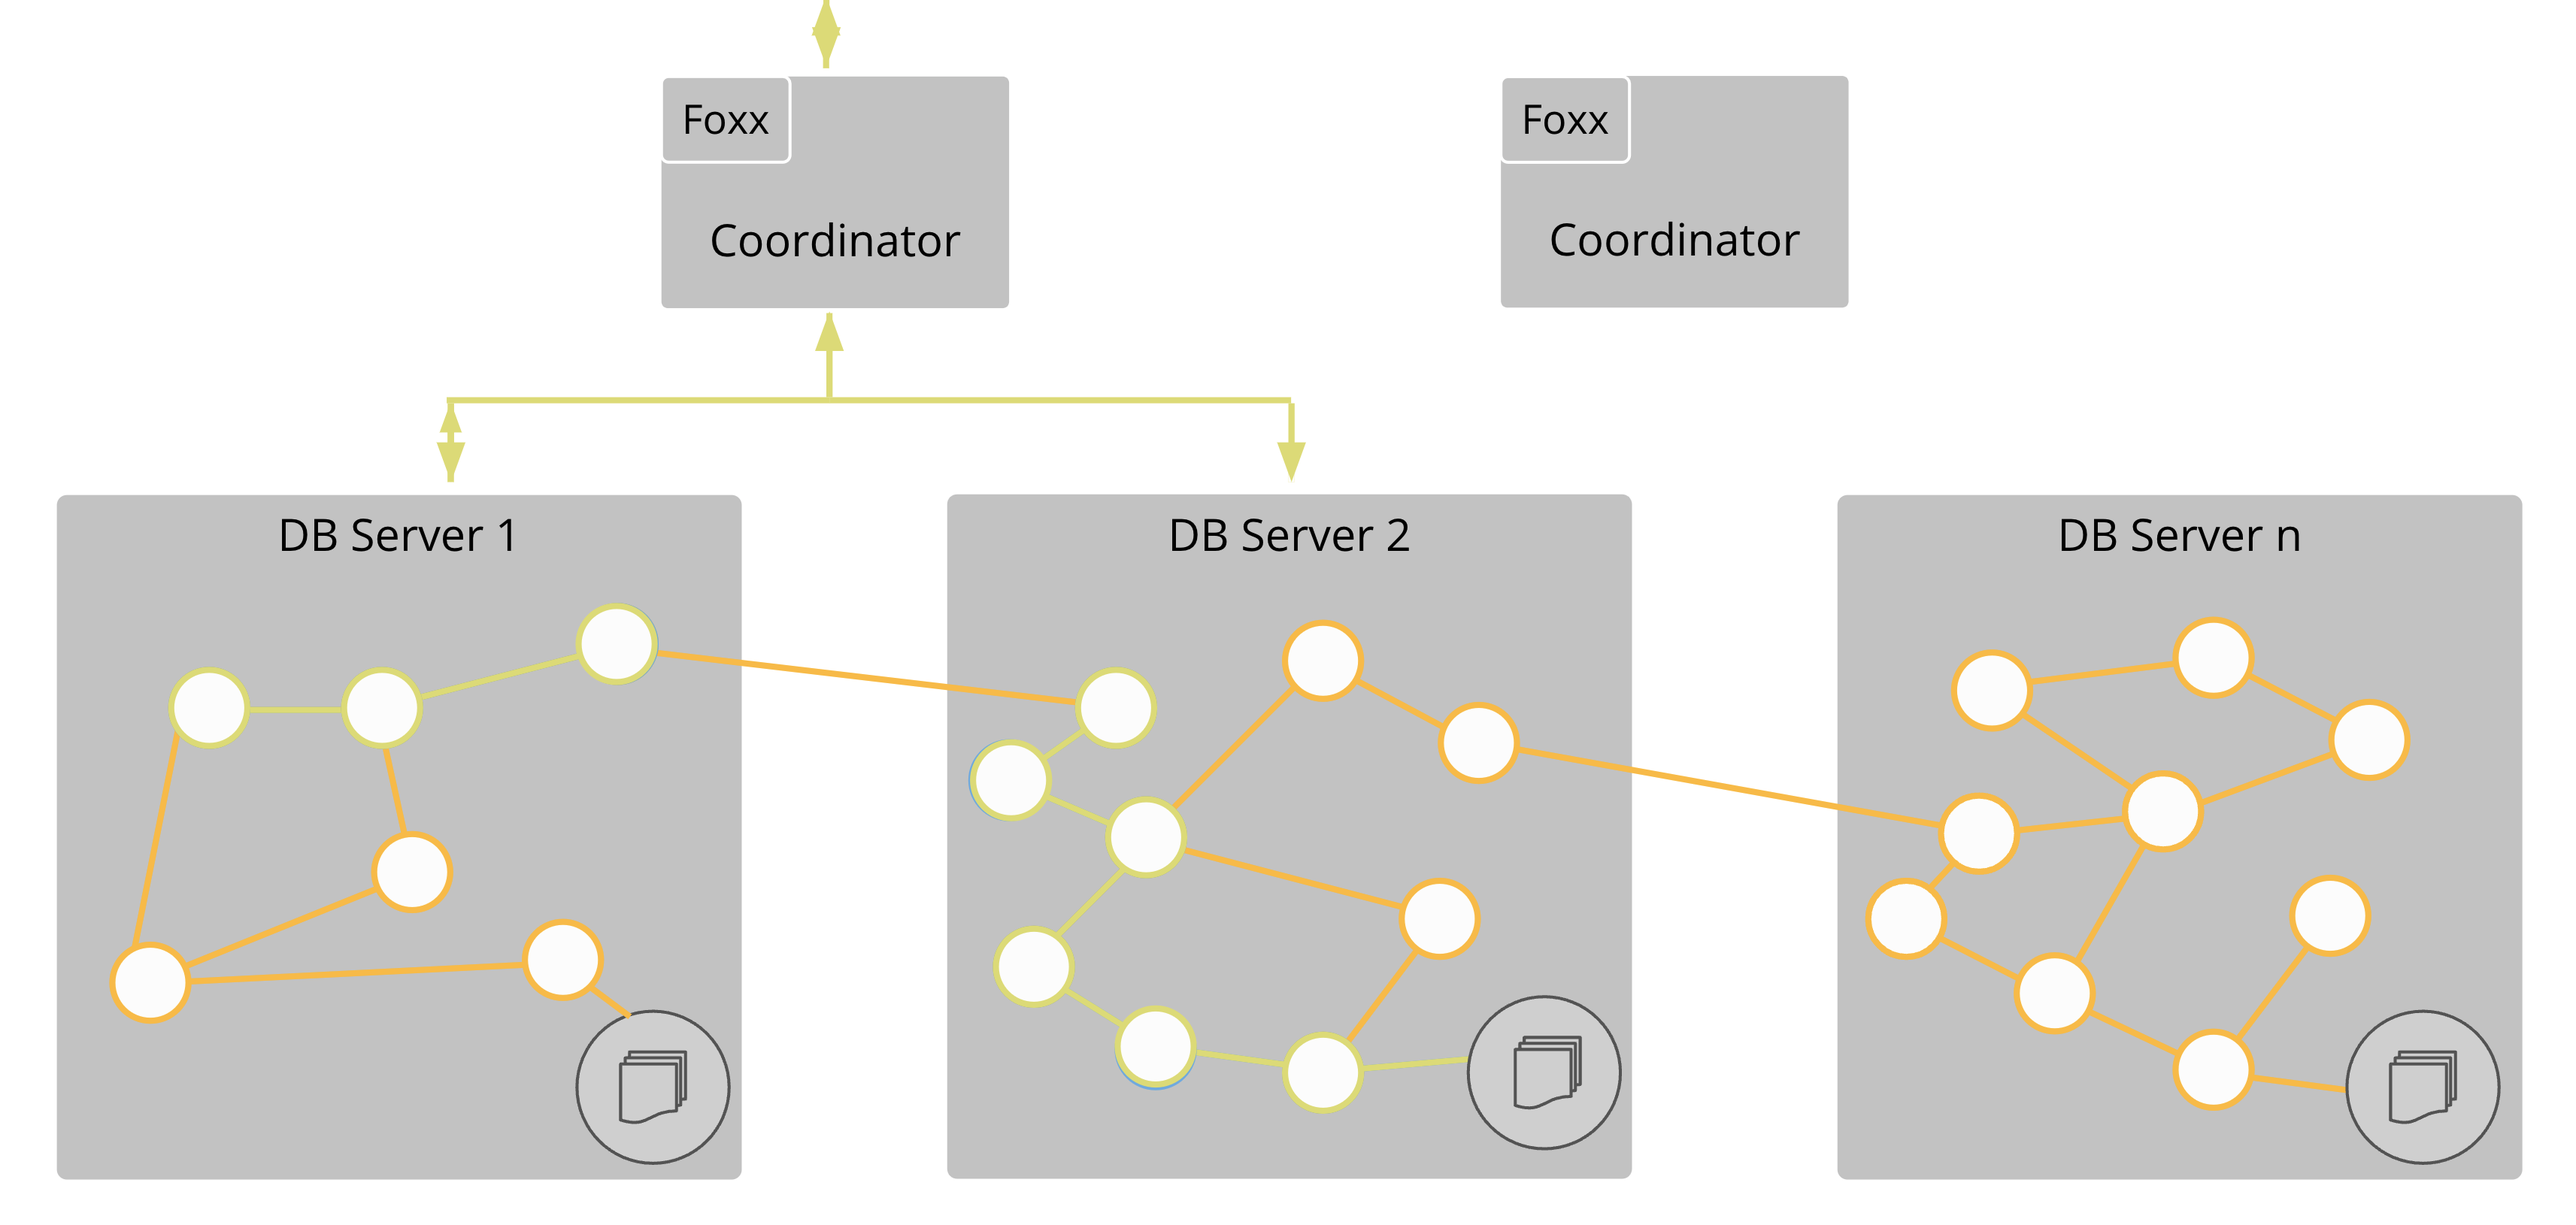
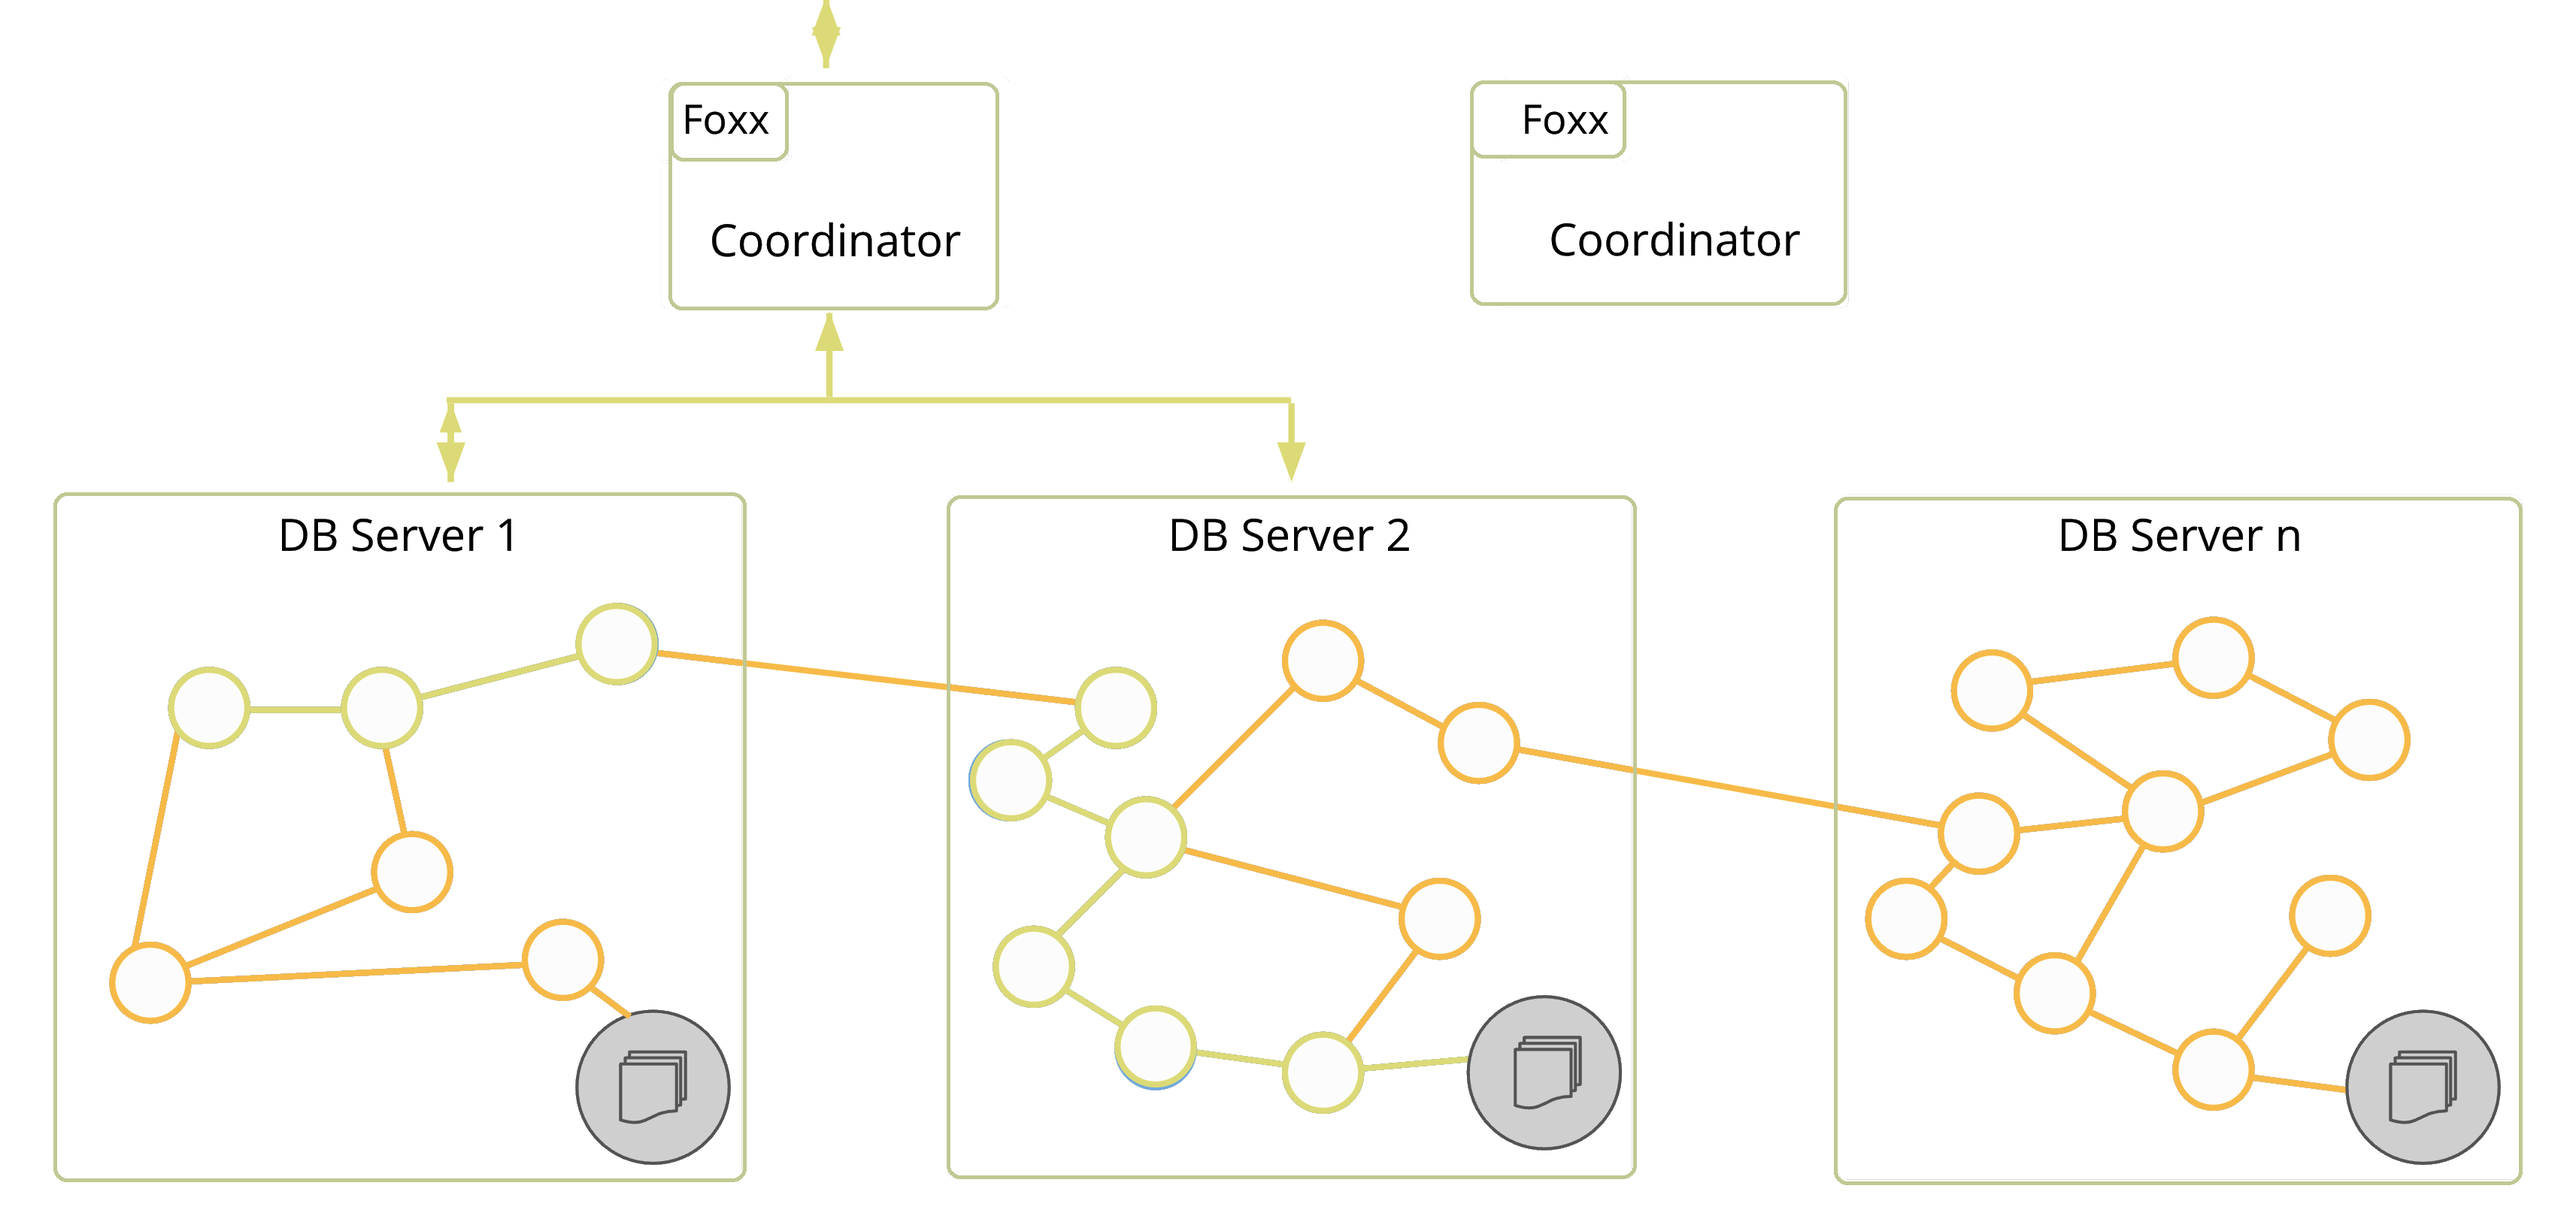
updated hybrid smartgraph image and fixed a typo

diff --git a/3.9/graphs-smart-graphs.md b/3.9/graphs-smart-graphs.md
@@ -58,7 +58,7 @@ By optimizing the distribution of data, SmartGraphs reduce the number of network
 
 SmartGraphs come with a concept of a `smartGraphAttribute` that is used to inform the database how exactly to shard data. When defining this attribute, think of it as a value that is stored in every vertex. For instance, in social network datasets, this attribute can be the ID or the region/country of the users. 
 
-The graph will than be automatically sharded in such a way that all vertices with the same value are stored on the same physical machine, all edges connecting vertices with identical `smartAttribute` values are stored on this machine as well. Sharding with this attribute means that the relevant data is now co-located on servers, whenever possible.
+The graph will than be automatically sharded in such a way that all vertices with the same value are stored on the same physical machine, all edges connecting vertices with identical `smartGraphAttribute` values are stored on this machine as well. Sharding with this attribute means that the relevant data is now co-located on servers, whenever possible.
 
 ![SmartGraphs data distribution](images/SmartGraphs_distribution.png)
 
